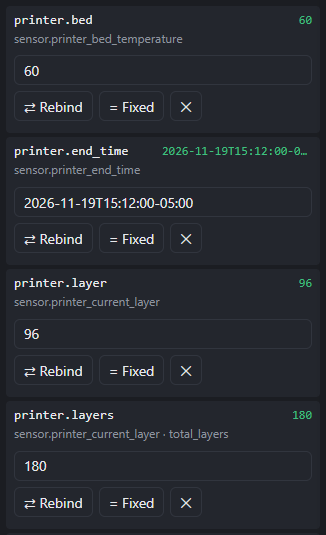
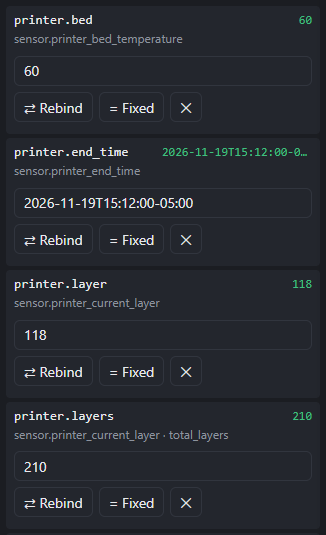
Editor: LED canvases drawn as dots (square LEDs, black gaps, dark-grey unlit)
- Shared drawLEDs() helper: dots at 3+ px per LED, plain pixels below.
- Screen editor canvas: dots, no grid overlay; it now draws at its on-screen
  resolution (whole device px per LED), so the gaps stay crisp at any width.
- Animation/icon editor: unlit LEDs dark grey, 1-px black gaps (they double as
  the painting grid); transparent pixels keep their checker.
- Library previews: drawn at 4 px per LED with dots. Icon thumbnails and frame
  strips (under 3 px per LED) stay solid.
- README screenshots retaken (3D printer from pixeld fix/printer-layer-box:
  118/210 fits).

diff --git a/pixel2mqtt/static/screen.js b/pixel2mqtt/static/screen.js
@@ -3,7 +3,8 @@
 // The preview is always render(parse(compile(project))), so what the canvas shows is exactly what is sent.
 // Uses screenrender.js (ScreenRender) and app.js helpers (api, el, toast, ask, askText, cur, lib, getIcon, ...).
 const Screens = (() => {
-  const R = ScreenRender, S = 16;               // canvas cell size (px)
+  const R = ScreenRender;
+  let S = 16;   // canvas px per LED: follows the canvas's on-screen size, so the LED gaps stay crisp (fitCanvas)
   const BUILTIN = new Set(["time", "date", "weekday", "month", "day", "hour", "minute", "second"]);
   const OPS = ["==", "!=", "<", ">", "<=", ">=", "in", "set", "has", "fresh"];
   const OP_LABEL = { set: "is set", has: "has a value", fresh: "is fresh" };   // set: a bare name (exists and isn't 0/off/false/empty)
@@ -288,6 +289,14 @@ const Screens = (() => {
     </div>
   </div>`;
   const cv = $("#scrCv"), g = cv.getContext("2d");
+  function fitCanvas() {   // draw at the real resolution: S whole device px per LED, the canvas exactly 52 x S wide
+    const dpr = window.devicePixelRatio || 1, avail = Math.min(cv.parentElement.clientWidth - 16, 832);
+    if (avail <= 0) return;
+    const s = Math.max(3, Math.min(32, Math.floor(avail * dpr / 52)));
+    if (s !== S || cv.width !== 52 * s) { S = s; cv.width = 52 * S; cv.height = 32 * S; dirty = true; }
+    cv.style.width = 52 * S / dpr + "px";
+  }
+  new ResizeObserver(fitCanvas).observe(cv.parentElement);
   const PALETTE = [["text", "Text", "T"], ["value", "Value", "{x}"], ["icon", "Icon", "◆"], ["iconmap", "Icon by value", "◆?"],
     ["bar", "Progress bar", "▬"], ["spark", "Sparkline", "∿"], ["rect", "Rectangle", "▭"], ["line", "Line", "╱"]];
   $("#scrPalette").replaceChildren(...PALETTE.map(([k, label, glyph]) => {
@@ -395,13 +404,7 @@ const Screens = (() => {
     if (!st) return;
     const c = ctx(), fb = parsed ? R.render(parsed, c) : new Uint8ClampedArray(52 * 32 * 3);
     st.lastFrame = fb;
-    for (let y = 0; y < 32; y++) for (let x = 0; x < 52; x++) {
-      const i = (y * 52 + x) * 3; g.fillStyle = `rgb(${fb[i]},${fb[i + 1]},${fb[i + 2]})`; g.fillRect(x * S, y * S, S, S);
-    }
-    g.strokeStyle = "rgba(255,255,255,.06)"; g.lineWidth = 1; g.beginPath();
-    for (let x = 1; x < 52; x++) { g.moveTo(x * S + .5, 0); g.lineTo(x * S + .5, 32 * S); }
-    for (let y = 1; y < 32; y++) { g.moveTo(0, y * S + .5); g.lineTo(52 * S, y * S + .5); }
-    g.stroke();
+    drawLEDs(g, fb, 3, 52, 32, S);   // dots, like the panel
     for (const gd of guides) { g.strokeStyle = "#ff3dbb"; g.lineWidth = 1; g.beginPath(); if (gd.x !== undefined) { g.moveTo(gd.x * S + .5, 0); g.lineTo(gd.x * S + .5, 32 * S); } else { g.moveTo(0, gd.y * S + .5); g.lineTo(52 * S, gd.y * S + .5); } g.stroke(); }
     const e = sel();
     if (e && !e.hidden) {

diff --git a/pixel2mqtt/static/app.js b/pixel2mqtt/static/app.js
@@ -2,6 +2,23 @@
 // pixel2mqtt web editor. No build step, no external libraries.
 const $ = s => document.querySelector(s);
 const PW = 52, PH = 32, FRAME = PW * PH * 3;
+// LEDs as the panel shows them: square dots with a black gap, unlit (black) LEDs very dark grey. Below 3 px per LED
+// there's no room for a gap, so plain pixels. px: RGB (stride 3) or RGBA (stride 4), w x h LEDs, s px per LED.
+const LED_OFF = 22;   // #161616
+function drawLEDs(g, px, stride, w, h, s, x0 = 0, y0 = 0) {
+  if (s < 3) {
+    const img = new ImageData(w, h);
+    for (let i = 0, j = 0; j < w * h * 4; i += stride, j += 4) { img.data[j] = px[i]; img.data[j + 1] = px[i + 1]; img.data[j + 2] = px[i + 2]; img.data[j + 3] = 255; }
+    return g.putImageData(img, x0, y0);
+  }
+  g.fillStyle = "#000"; g.fillRect(x0, y0, w * s, h * s);
+  for (let y = 0; y < h; y++) for (let x = 0; x < w; x++) {
+    const i = (y * w + x) * stride, r = px[i], gg = px[i + 1], b = px[i + 2];
+    g.fillStyle = r || gg || b ? `rgb(${r},${gg},${b})` : "#161616";
+    g.fillRect(x0 + x * s, y0 + y * s, s - 1, s - 1);
+  }
+}
+const PREV_S = 4;   // Library previews: 208 x 128
 
 /* ------------------------------------------------------------------ helpers */
 async function api(path, opts = {}) {
@@ -223,9 +240,7 @@ async function previewAnim(f) {
     const a = parsePXA(await api(`/displays/${cur}/files/anims/${enc(f.name)}?size=${f.size}`));
     const img = new ImageData(PW, PH), t0 = performance.now();
     prevTimer = setInterval(() => {
-      const fr = frameAt(a, performance.now() - t0).rgb;
-      for (let i = 0, j = 0; i < FRAME; i += 3, j += 4) { img.data[j] = fr[i]; img.data[j + 1] = fr[i + 1]; img.data[j + 2] = fr[i + 2]; img.data[j + 3] = 255; }
-      c.putImageData(img, 0, 0);
+      drawLEDs(c, frameAt(a, performance.now() - t0).rgb, 3, PW, PH, PREV_S);
     }, 33);
   } catch (e) { toast(e.message, true); }
 }
@@ -266,8 +281,7 @@ async function previewScreen(f) {
     const img = new ImageData(PW, PH);
     scrTimer = setInterval(() => {
       const fb = ScreenRender.render(scr, { values, icons, now: now(), fahrenheit: flag(/fahrenheit/i), h12: flag(/12.?h/i) });
-      for (let i = 0, j = 0; i < FRAME; i += 3, j += 4) { img.data[j] = fb[i]; img.data[j + 1] = fb[i + 1]; img.data[j + 2] = fb[i + 2]; img.data[j + 3] = 255; }
-      c.putImageData(img, 0, 0);
+      drawLEDs(c, fb, 3, PW, PH, PREV_S);
     }, 100);
   } catch (e) { toast(e.message, true); }
 }

diff --git a/pixel2mqtt/static/editor.js b/pixel2mqtt/static/editor.js
@@ -144,7 +144,7 @@ const Editor = (() => {
     for (let y = 0; y < V.h; y++) for (let x = 0; x < V.w; x++) {
       const i = (y * V.w + x) * 4, wx = V.x + x, wy = V.y + y, inP = inPanel(wx, wy), chk = (wx + wy) & 1;
       if (inP) {
-        if (c[i + 3]) { px[i] = c[i]; px[i + 1] = c[i + 1]; px[i + 2] = c[i + 2]; }
+        if (c[i + 3]) { const off = !(c[i] || c[i + 1] || c[i + 2]) && cell >= 3; px[i] = off ? LED_OFF : c[i]; px[i + 1] = off ? LED_OFF : c[i + 1]; px[i + 2] = off ? LED_OFF : c[i + 2]; }   // unlit LEDs: dark grey
         else { const v = chk ? 42 : 29; px[i] = px[i + 1] = px[i + 2] = v; }
       } else {
         let r, gg, b;
@@ -168,11 +168,10 @@ const Editor = (() => {
       forEachLayerPixel(l, prev, lx, ly, (x, y, s) => { if (prev.rgba[s + 3]) { g.fillStyle = `rgb(${prev.rgba[s]},${prev.rgba[s + 1]},${prev.rgba[s + 2]})`; g.fillRect(x * cell, y * cell, cell, cell); } });
       g.globalAlpha = 1;
     }
-    if (cell >= 8) {
-      g.strokeStyle = "rgba(255,255,255,0.07)"; g.lineWidth = 1; g.beginPath();
-      for (let x = V.x + 1; x < V.x + V.w; x++) { g.moveTo(x * cell + .5, V.y * cell); g.lineTo(x * cell + .5, (V.y + V.h) * cell); }
-      for (let y = V.y + 1; y < V.y + V.h; y++) { g.moveTo(V.x * cell, y * cell + .5); g.lineTo((V.x + V.w) * cell, y * cell + .5); }
-      g.stroke();
+    if (cell >= 3) {   // LED dots: a 1-px black gap at the right and bottom of every cell (it doubles as the painting grid)
+      g.fillStyle = "#000";
+      for (let x = V.x + 1; x <= V.x + V.w; x++) g.fillRect(x * cell - 1, V.y * cell, 1, V.h * cell);
+      for (let y = V.y + 1; y <= V.y + V.h; y++) g.fillRect(V.x * cell, y * cell - 1, V.w * cell, 1);
     }
     g.strokeStyle = "rgba(255,255,255,.85)"; g.lineWidth = 2; g.strokeRect(-1, -1, sc.w * cell + 2, sc.h * cell + 2);   // the panel
     if (!playing && !l.tile) {  // selected layer bounds

diff --git a/pixel2mqtt/static/index.html b/pixel2mqtt/static/index.html
@@ -228,10 +228,10 @@
   </div>
   <div class="libgrid">
     <div class="card"><h3>Animations <span id="animCount" class="muted"></span></h3>
-      <canvas id="animPrev" width="52" height="32" class="prev"></canvas>
+      <canvas id="animPrev" width="208" height="128" class="prev"></canvas>
       <div id="animList" class="list"></div></div>
     <div class="card"><h3>Screens <span id="screenCount" class="muted"></span></h3>
-      <canvas id="scrPrev" width="52" height="32" class="prev" title="Click a screen to preview it with its current values"></canvas>
+      <canvas id="scrPrev" width="208" height="128" class="prev" title="Click a screen to preview it with its current values"></canvas>
       <div id="scrPrevNote" class="muted small">Click a screen to preview it.</div>
       <div id="screenList" class="list"></div></div>
     <div class="card"><h3>Icons <span id="iconCount" class="muted"></span></h3><div id="iconList" class="list"></div></div>

diff --git a/README.md b/README.md
@@ -33,7 +33,7 @@ broker and Home Assistant for any number of displays. You get:
 screens, exposing settings, animations, icons and playlists.
 
 ### Screenshots
-**Screen editor**: the 3D printer example mid-print (56 %, layer 96 of 180), with sample values. Elements on the left, the 52×32 preview in
+**Screen editor**: the 3D printer example mid-print (56 %, layer 118 of 210), with sample values. Elements on the left, the 52×32 preview in
 the middle (the print head rises as the part grows), the selected element's settings on the right.
 
 <img src="docs/img/screen-editor.png" alt="Screen editor: a 3D printer screen at 56 % with the print name, a printer drawing, a progress bar, time left and layers" width="900">
